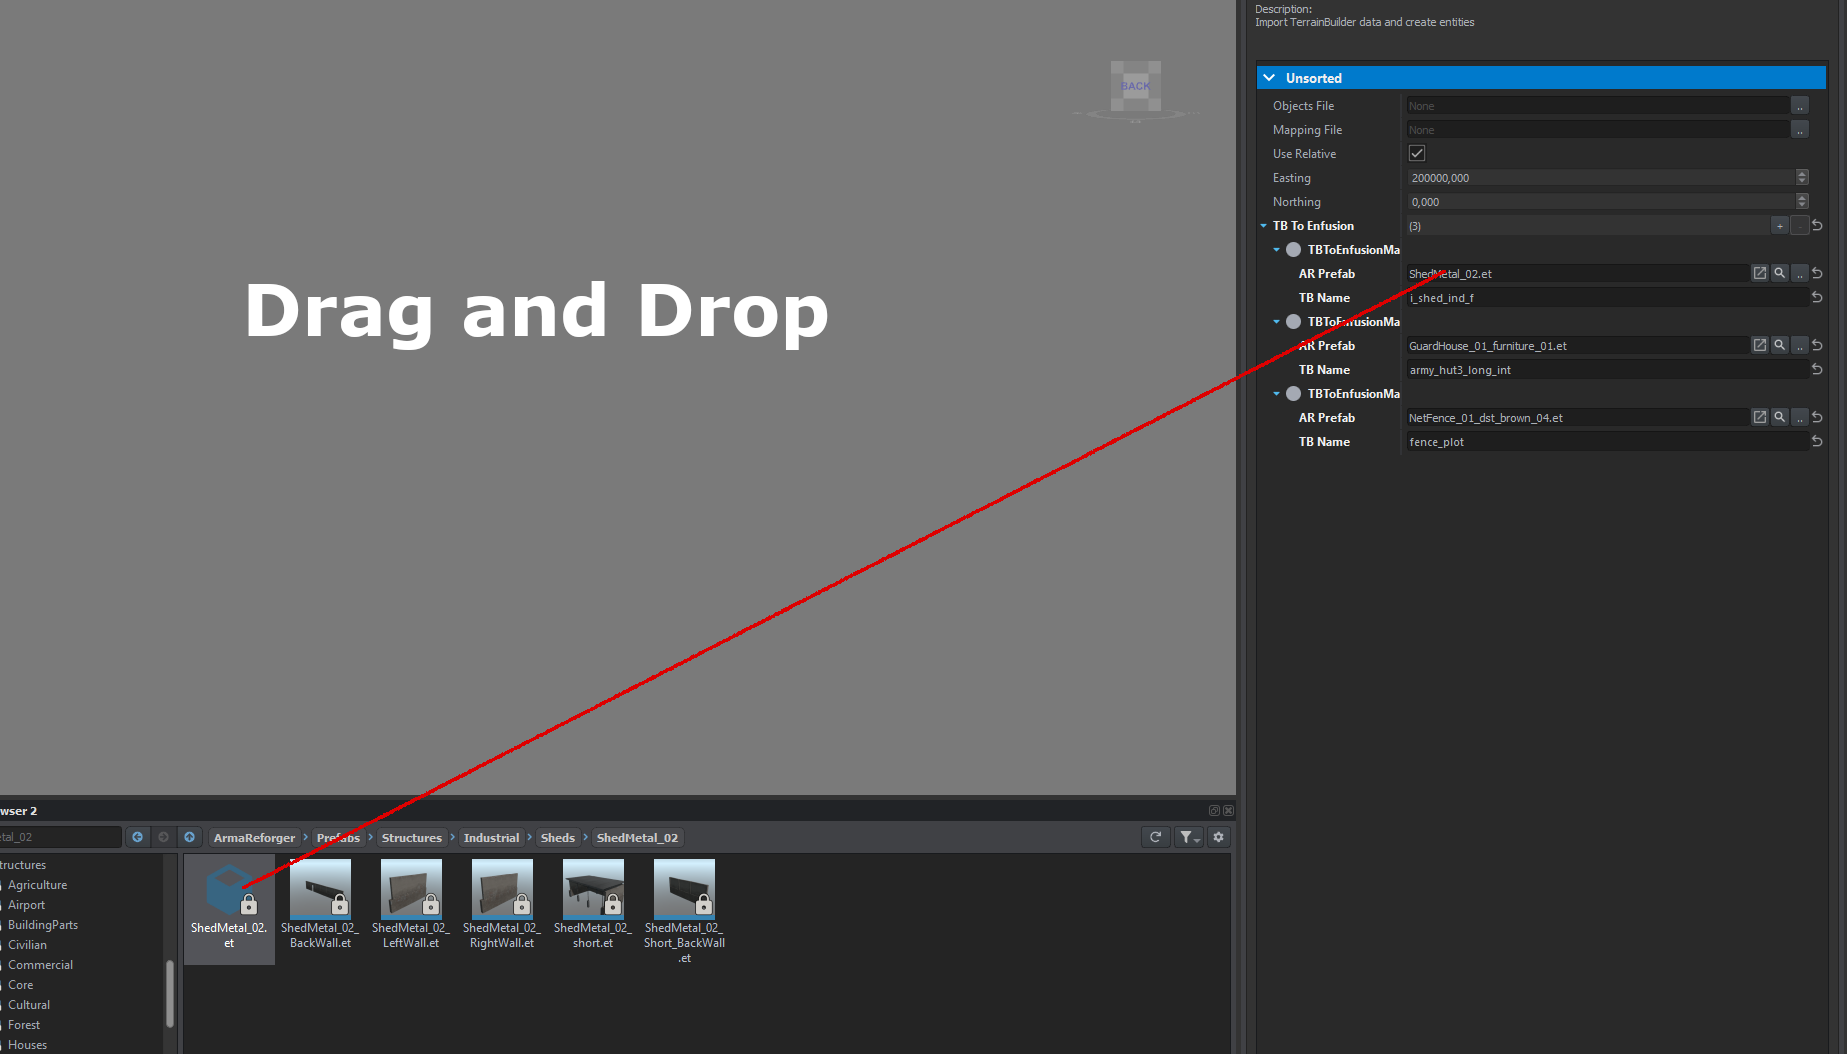
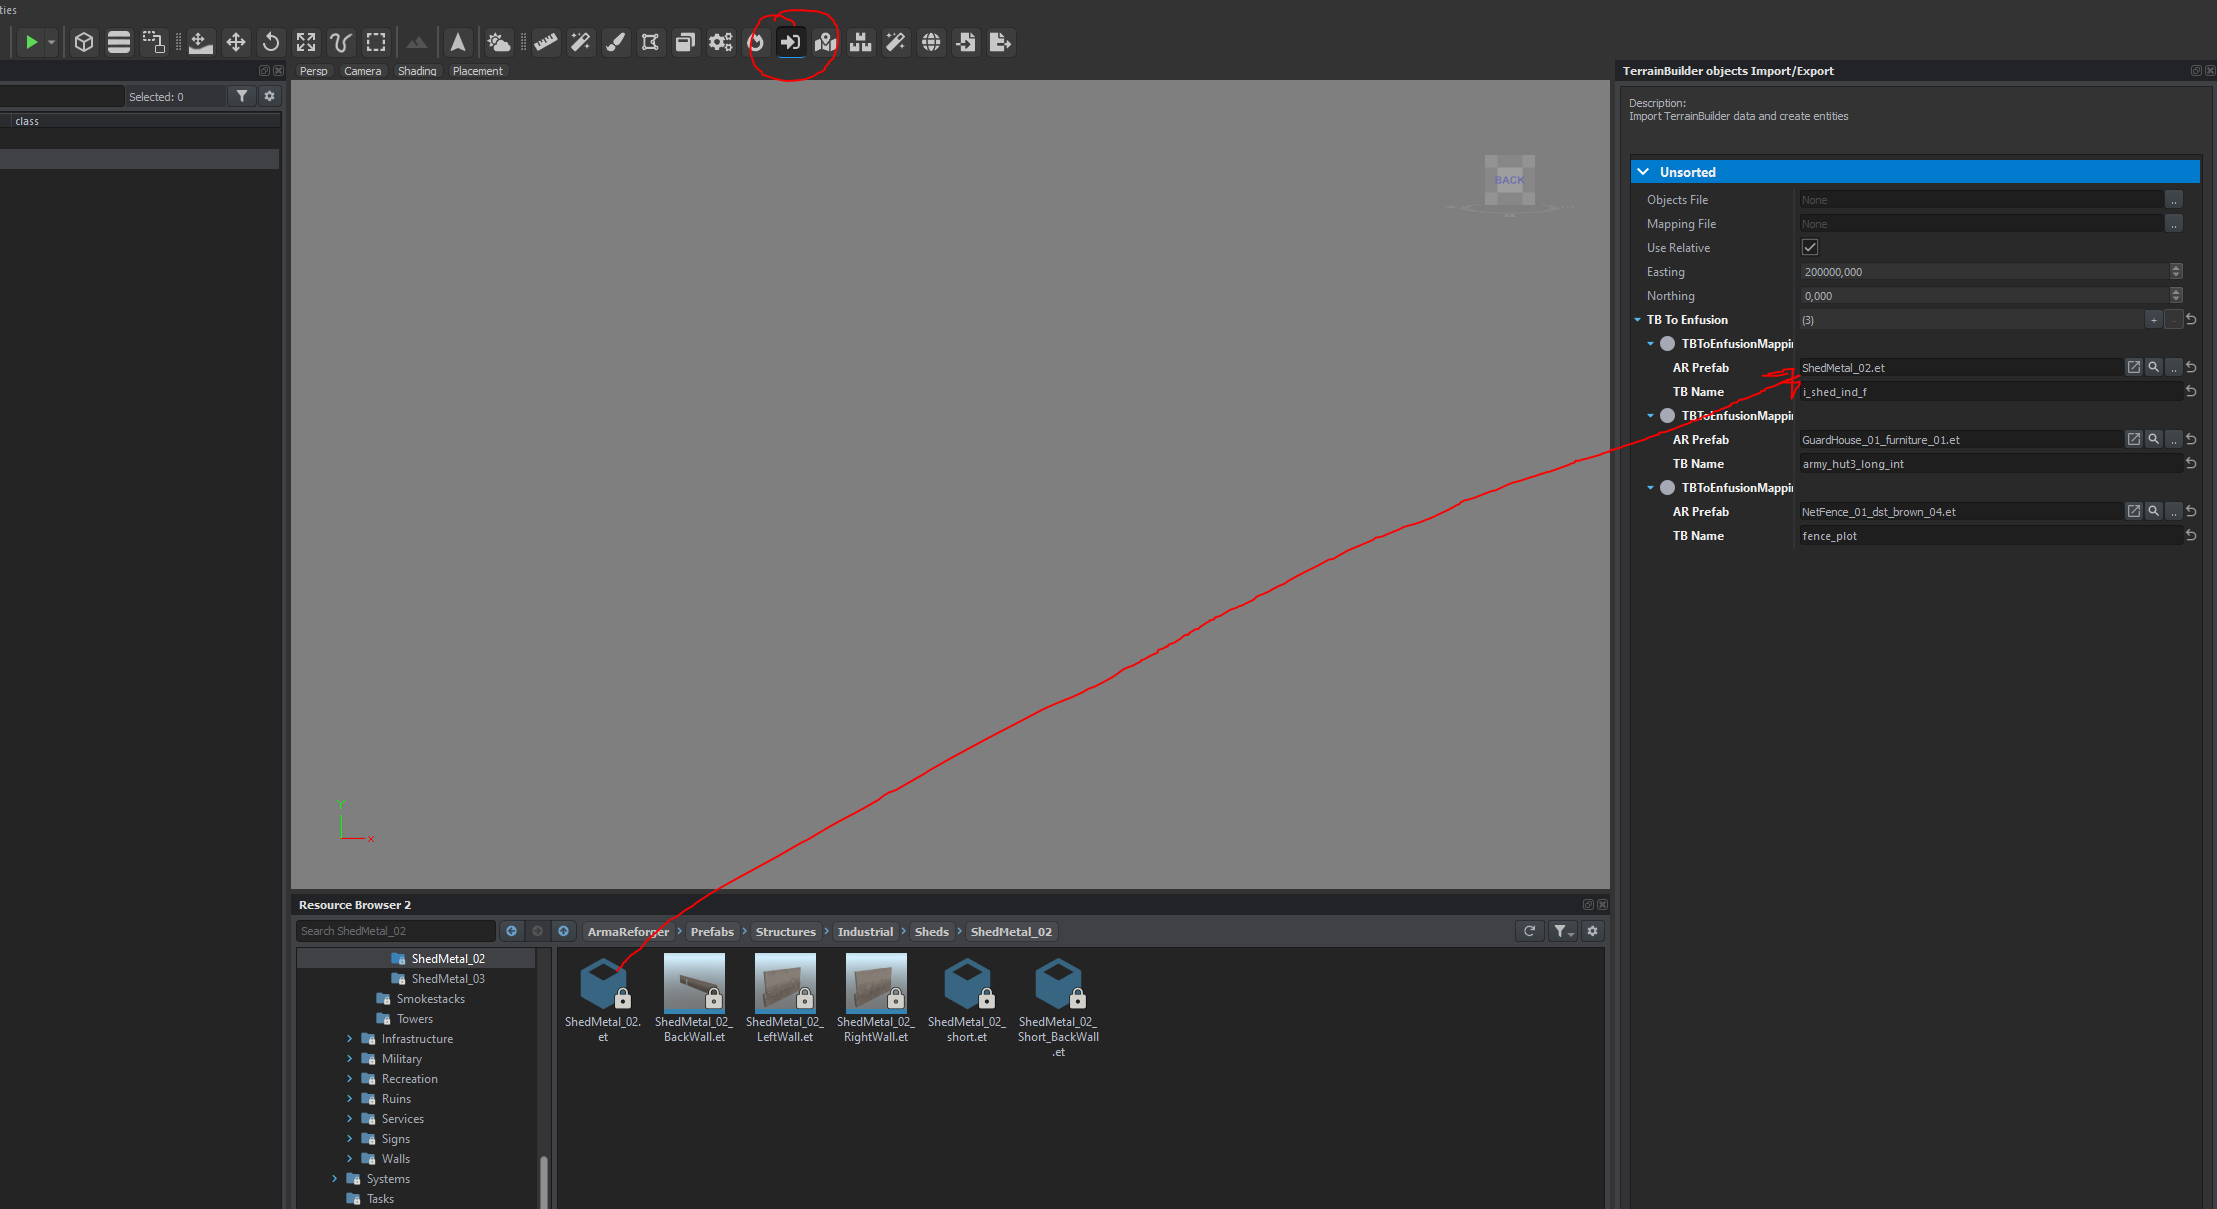
add usage guide

diff --git a/README.md b/README.md
@@ -18,4 +18,22 @@ GUID
 5968EDE2531518AF
 ```
 
+# Usage
+1. Download the mod from workshop and add it as dependency
+2. Open World Editor and look for the following tool icon
+
+![](screenshots\dragndrop.png)
+
+
+3. Add your `objectx.txt` file to the Workbench project so it can be selected from the file chooser.
+4. Adjust the parameters to your map
+5. Create mappings for your objects - click on the + next to `TB To Enfusion`
+    - AR Prfeb - choose a prefeb to replace a TB object
+    - TB Name - this is the name of your object from the Terrain Builder Template Library
+6. Export your mapping file to be used later aswell
+    - You can later import the mappings again 
+    - NOTE: currently the UI for the mapping will not update when you import a mapping file so check with `Print Mapping` if the correct one is loaded -> it prints to the `Log Console`
+7. Import your objects 
+    - Objects will be imported into current active layer 
+
 
